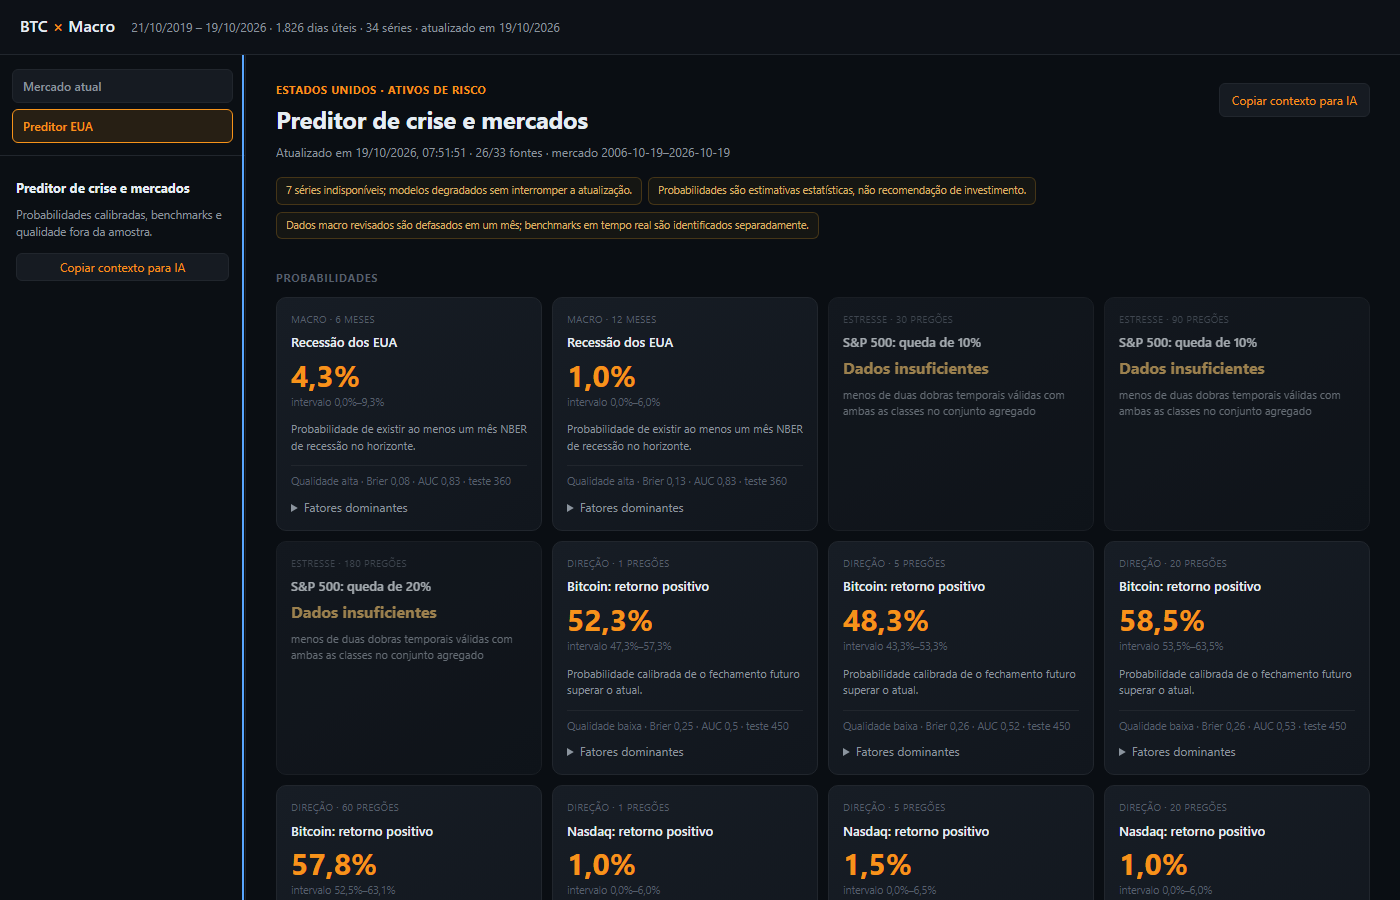
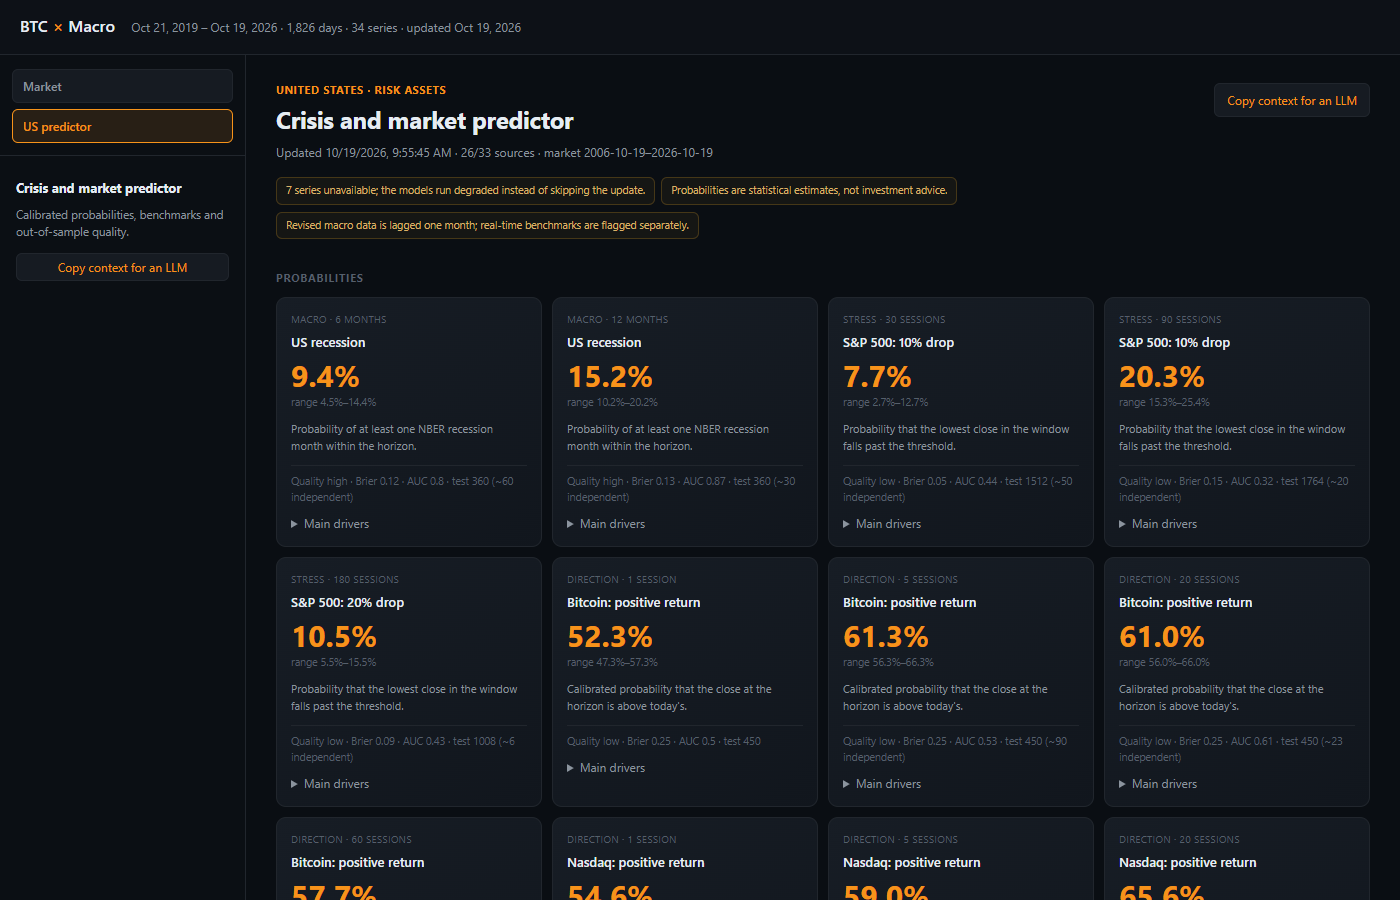
readme notes on the weekend bug, screenshots in english, MIT

diff --git a/README.md b/README.md
@@ -6,7 +6,7 @@ Local dashboard that puts Bitcoin next to on-chain metrics, US indices, rates an
 
 - **Trend panel**: every series is rebased to 100 at the left edge of whatever window you're looking at, recomputed on each zoom/pan. Oscillators (MVRV, Fear & Greed, rates, VIX, net exchange flow) go in a second panel, in their own scale, one at a time.
 - **Stats, in the browser**, no libraries: rolling Pearson/Spearman, lead/lag, beta/R², Engle-Granger cointegration (with the ADF pre-check that tells you when the test doesn't apply), conditional forward returns, z-score, percentile, realized vol, drawdown. Correlation and regression always run on returns, not prices.
-- **Predictor**: logistic regression + gradient boosting with isotonic calibration, repeated walk-forward with contiguous train/calibration/test blocks (no random splits), macro inputs lagged one month. Brier, log loss, AUC and calibration curves are all out of sample. Rare events without enough history come back as "insufficient data" instead of a made-up probability.
+- **Predictor**: logistic regression + gradient boosting, calibrated (isotonic, or Platt when one class is thin), repeated walk-forward with contiguous train/calibration/test blocks (no random splits), macro inputs lagged one month. Brier, log loss, AUC and calibration curves are all out of sample. A model with no edge falls back to the base rate and says so instead of printing a confident number.
 - **Free data only**: CoinMetrics community API, Yahoo Finance, alternative.me, blockchain.info, FRED with fallbacks to BLS, BEA, Treasury, DOL, Chicago Fed and OFR when FRED doesn't answer.
 
 ![predictor view](docs/predictor.png)
@@ -38,9 +38,9 @@ Both optional.
 
 ## Notes
 
-- The UI is in Portuguese (I built it for myself). Code, data keys and logs are English.
 - Realized Price is derived, not downloaded: CoinMetrics took `CapRealUSD` off the free tier, but RP = price / MVRV and both of those are still free.
 - `serve.py` binds to 127.0.0.1 only and sends a CSP that blocks anything external; plotly is vendored in `web/`.
 - Macro data uses reference periods, not release-date vintages. The backtest lags it a month to compensate and says so in the payload.
-- Known issue: the index direction cards (Nasdaq / S&P 500 "retorno positivo") are currently pinned at the 1% calibration floor while reporting a high AUC on a short test window. Most likely the isotonic step overfitting the last calibration window, not a signal. Ignore those cards until it's fixed.
+- Market targets and features are built on each asset's own trading sessions. They used to live on BTC's 7-day calendar, where a Sunday row did `Monday / NaN > 1`, got a free "down" label, and the equity models learned to spot weekends: AUC 0.8 on next-day Nasdaq direction, and 1% on Monday mornings before the US open (no close yet, so it looked like a Sunday). With that gone, daily index direction is about a coin flip, which is the honest answer.
+- Overlapping horizons are counted as what they are: 270 test days of a 60-session target are ~4 independent outcomes, so those cards stay "low" quality and close to the base rate.
 - Not investment advice.
